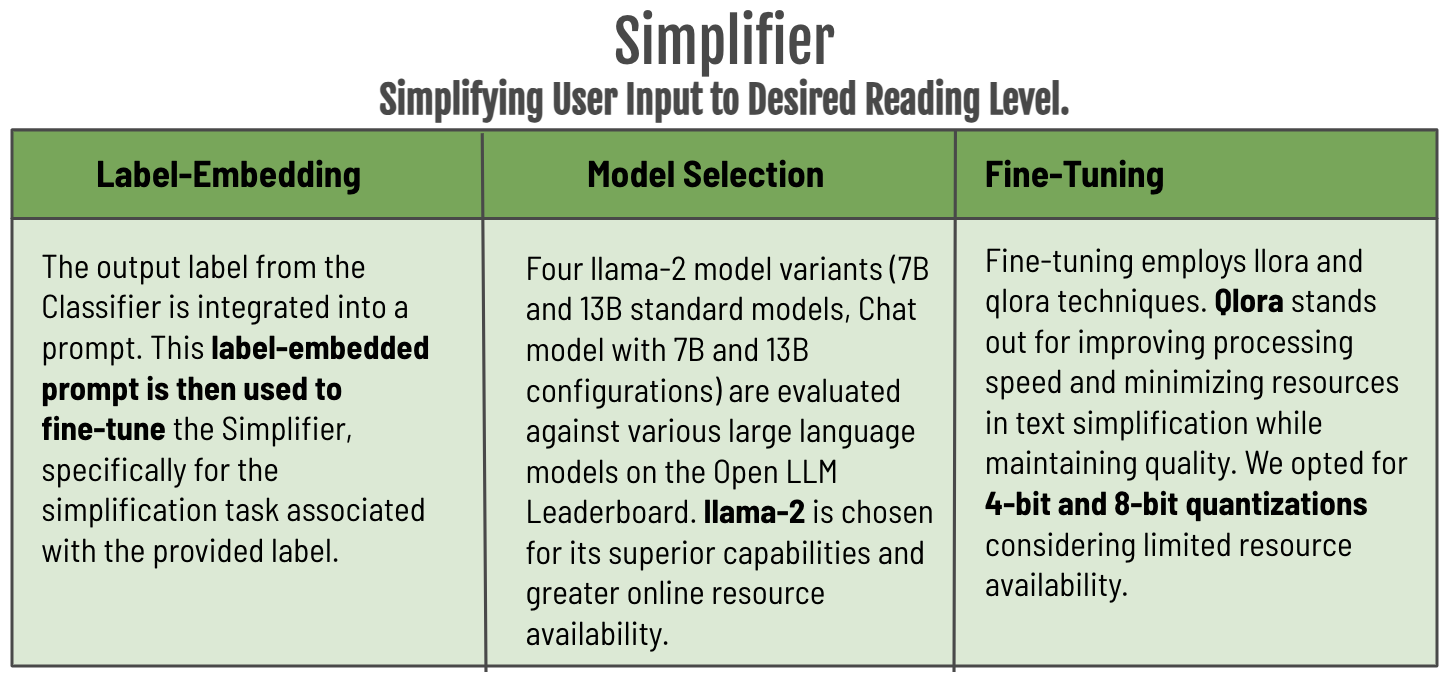
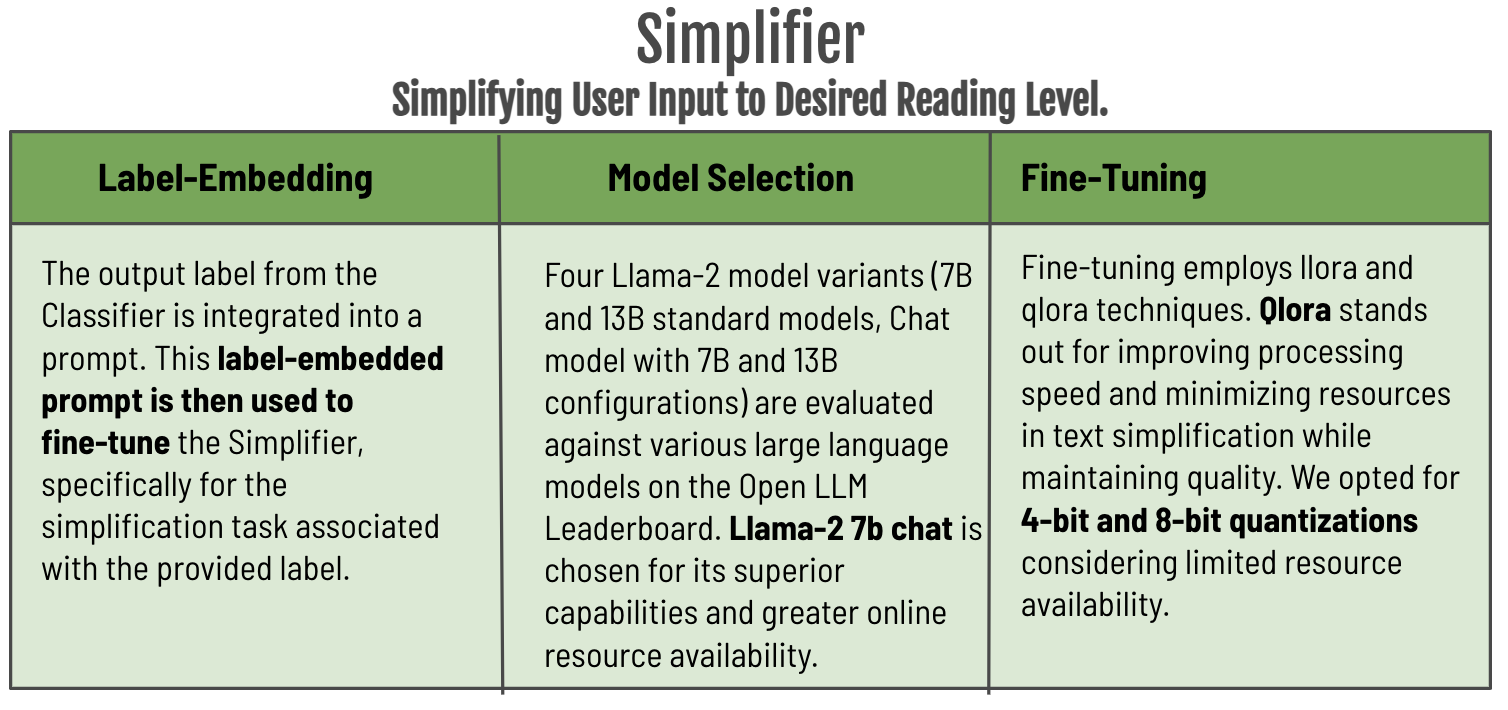
edit

Changed region(s): [[0.0, 0.0, 0.9917, 0.9853]]

diff --git a/README.md b/README.md
@@ -56,7 +56,7 @@ We collected open source articles from '[News in Levels](https://www.newsinlevel
 
 These sources have the same text in multiple reading levels, which we define with the [Common European Framework of Reference for Languages (CEFR)](https://www.coe.int/en/web/common-european-framework-reference-languages/level-descriptions).
 
-There are 6 CEFR levels, but we mapped our data to 3 major levels: CEFFR C-B-A corresponding to Advanced-Intermediate-Beginner.
+There are 6 CEFR levels, but we mapped our data to 3 major levels: CEFR C-B-A corresponding to Advanced-Intermediate-Beginner.
 
 <p align="center">
   <img src="pictures/cefr.png" alt="goals" width="600" height="200">
@@ -110,6 +110,9 @@ An aggregate of the following metrics is used to measure the complexity of the p
   <img src="pictures/gpt-eval.png" alt="eval" width="700" height="350">
 </p>
 
+Overall, we see that the fine-tuned **Llama-2 7b chat model** performs best for the simplification task. Comparison with the results of the out-of-box model shows that our fine-tuning greatly improved the quality of the generated text for the task.
+
+
 ## User Interface 
 
 <p align="center">
@@ -118,7 +121,8 @@ An aggregate of the following metrics is used to measure the complexity of the p
 
 UI created and deployed with Streamlit. User's input text is classified as a reading level, seen above in "Input text is at [Advanced] Level." User can then choose to simplify the text to a Beginner or Intermediate level in the "Simplify to:" option.
 
-**Inclusivity features** included were bionic reading Mode, text-to-speech, font display adjustment, and PDF download.
+
+**Inclusivity features** included are bionic reading, text-to-speech, font display adjustment, and PDF download.
 
 ## Challenges, Findings, and Future Work
 
@@ -154,9 +158,9 @@ Team:
 - Lavanya Srivastava
 - Prayut Jain
 
-Conversation AI with Nick Kadochnikov @ University of Chicago M.S. in Applied Data Science 
+Conversational AI with Nick Kadochnikov @ University of Chicago M.S. in Applied Data Science 
 
 Contributions, feedback, and improvements are always welcome. Feel free to submit pull requests or raise issues.
 This project is licensed under the MIT License. Refer to the `LICENSE` file for more details.
 
-                                    Keep It Simple. Making Information Accessible with AI. 
+                       Keep It Simple. Making Information Accessible with AI. 
